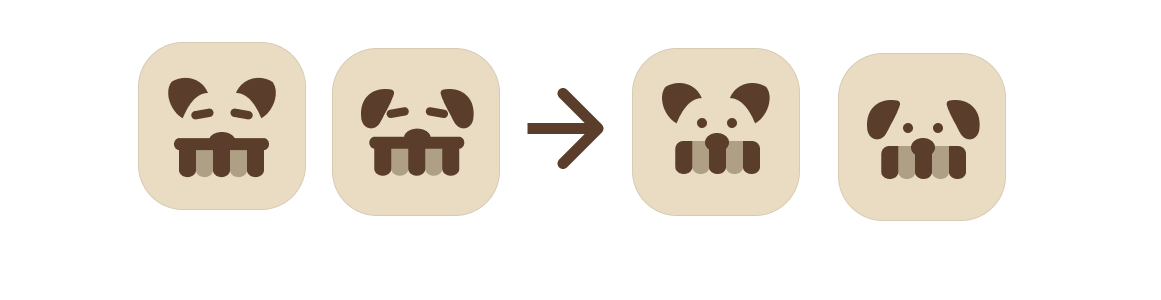
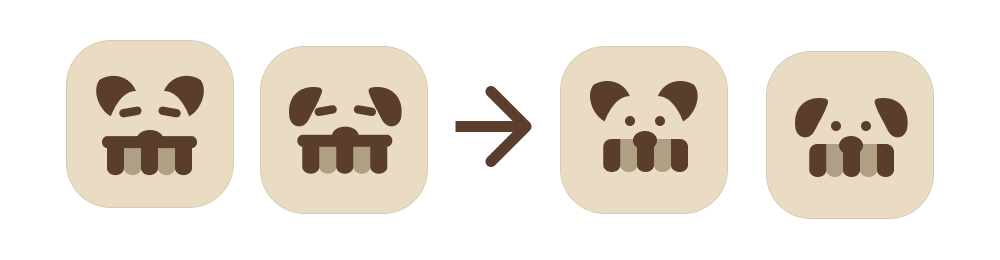
Mark: optical centre judged by eye, Figma board recropped
- Glyph sits 4 units below the tile centre in every icon (was 4 above)
- Figma board cropped evenly, rounded corners
- Mark page and AI log step 38, EN + PT

diff --git a/site/index.html b/site/index.html
@@ -258,6 +258,7 @@ body::before { content: ""; position: fixed; inset: 0 0 auto; height: env(safe-a
 .marks img { display: block; max-width: 100%; height: auto; }
 .marks figcaption { max-width: 24ch; font-size: 13px; line-height: 1.4; color: var(--muted-fg); }
 .marks.wide figcaption { max-width: 70ch; }
+.marks.wide img { border-radius: 14px; }
 .tfaces { display: grid; grid-template-columns: repeat(auto-fit, minmax(240px, 1fr)); gap: var(--s-4); margin: var(--s-4) 0 var(--s-6); }
 .tface { margin: 0; padding: var(--s-5); border: 1px solid var(--border); border-radius: var(--radius); }
 .tface-aa { font-size: 64px; line-height: 1; color: var(--fg); }

diff --git a/docs/pt-br/develop/design-system/mark.md b/docs/pt-br/develop/design-system/mark.md
@@ -10,7 +10,7 @@ Takeaways:
 Call:
 - Provisória (decisão 033). Em preto e branco até a paleta ser escolhida.
 AI:
-- Um agente desenhou os testes de ícone em SVG a partir das minhas sementes (um cão farejador, as compras britânicas, os toldos da parade). Levei os dois primeiros para o Figma e mudei os vetores à mão. O agente exportou a minha versão, reconstruiu-a sobre um eixo só e desenhou as aplicações nas plataformas; ele só mudou proporções onde o desenho estava fora de centro.
+- Um agente desenhou os testes de ícone em SVG a partir das minhas sementes (um cão farejador, as compras britânicas, os toldos da parade). Levei os dois primeiros para o Figma e mudei os vetores à mão. O agente exportou a minha versão, reconstruiu-a sobre um eixo só e desenhou as aplicações nas plataformas. O primeiro centro ótico deixou o desenho alto demais; eu apontei, e ele escolheu outro comparando deslocamentos no olho.
 Trade-offs:
 - No Android o desenho precisa caber numa zona segura de 66 dp, então ele ocupa cerca de metade da largura do ícone e as listras ficam finas em tamanhos pequenos. Uma versão mais simples para tamanhos pequenos continua em aberto.
 ```
@@ -23,7 +23,7 @@ Trade-offs:
 ## Dos testes à marca
 
 <div class="marks wide">
-<figure><img src="../../../develop/design-system/img/mark-figma-board.png" alt="Quatro ícones num quadro do Figma: dois testes do agente, uma seta e duas versões desenhadas à mão" width="1161" height="300"><figcaption>Meu quadro no Figma. À esquerda da seta, os testes de ícone 1 e 2 do agente. À direita, as minhas duas versões; escolhi a última.</figcaption></figure>
+<figure><img src="../../../develop/design-system/img/mark-figma-board.png" alt="Quatro ícones num quadro do Figma: dois testes do agente, uma seta e duas versões desenhadas à mão" width="1000" height="260"><figcaption>Meu quadro no Figma. À esquerda da seta, os testes de ícone 1 e 2 do agente. À direita, as minhas duas versões; escolhi a última.</figcaption></figure>
 </div>
 
 Nos testes do agente, o toldo da parade era uma barra atravessando o rosto, com listras penduradas e dois traços como sobrancelhas. No Figma, eu mesmo mudei os vetores:
@@ -44,10 +44,10 @@ O agente reconstruiu o desenho a partir dos vetores do Figma sem mudar as formas
 | --- | --- | --- |
 | Eixo de simetria | Três centros: olhos e nariz em 85,0, orelhas em 85,3, toldo em 85,65 (de 168) | Um eixo só para todas as partes; a orelha direita é o espelho da esquerda |
 | Listras | Cinco listras de 17 unidades, com um degrau de 0,3 entre a segunda e a terceira | Cinco listras de exatamente 17 unidades |
-| Posição | Desenho centralizado 2,5 unidades abaixo do centro da base e 1,3 à direita | Centralizado na horizontal e 4 unidades acima do centro, porque o toldo deixa o desenho pesado embaixo |
+| Posição | Desenho centralizado 2,5 unidades abaixo do centro da base e 1,3 à direita | Centralizado na horizontal; na vertical, 4 unidades abaixo do centro da base, escolhido no olho entre deslocamentos de 0 a 9 na máscara circular, onde as orelhas largas encontram a curva e fazem um desenho centralizado parecer alto |
 
 <div class="marks">
-<figure><img src="../../../develop/design-system/img/mark-grid.svg" alt="A marca sobre um grid de construção com eixo, centro ótico e círculo de conteúdo" width="336" height="336"><figcaption>Grid de 8 unidades sobre uma base de 168. Vermelho: as linhas de centro da base. Azul tracejado: o centro ótico do desenho. Círculo cinza: 80% da base.</figcaption></figure>
+<figure><img src="../../../develop/design-system/img/mark-grid.svg" alt="A marca sobre um grid de construção com eixo, centro ótico e círculo de conteúdo" width="336" height="336"><figcaption>Grid de 8 unidades sobre uma base de 168. Vermelho: as linhas de centro da base. Azul tracejado: o centro do desenho, 4 unidades abaixo. Círculo cinza: 80% da base.</figcaption></figure>
 </div>
 
 ## iOS

diff --git a/docs/develop/design-system/mark.md b/docs/develop/design-system/mark.md
@@ -10,7 +10,7 @@ Takeaways:
 Call:
 - Provisional (decision 033). Black and white until the palette is chosen.
 AI:
-- An agent drew the icon tests in SVG from my seeds (a sniffer dog, British shopping, the parade's awnings). I took the first two into Figma and changed the vectors by hand. The agent exported my version, rebuilt it on one axis and drew the platform applications; it changed proportions only where the drawing was off-centre.
+- An agent drew the icon tests in SVG from my seeds (a sniffer dog, British shopping, the parade's awnings). I took the first two into Figma and changed the vectors by hand. The agent exported my version, rebuilt it on one axis and drew the platform applications. Its first optical centre put the glyph too high; I pointed it out and it chose a new one by comparing offsets by eye.
 Trade-offs:
 - On Android the glyph has to fit a 66 dp safe zone, so it is about half the icon's width and the stripes get thin at small sizes. A simpler version for small sizes is still open.
 ```
@@ -23,7 +23,7 @@ Trade-offs:
 ## From the tests to the mark
 
 <div class="marks wide">
-<figure><img src="img/mark-figma-board.png" alt="Four icons on a Figma board: two agent tests, an arrow, and two hand-drawn versions" width="1161" height="300"><figcaption>My Figma board. Left of the arrow: the agent's icon tests 1 and 2. Right: my two versions; I chose the last one.</figcaption></figure>
+<figure><img src="img/mark-figma-board.png" alt="Four icons on a Figma board: two agent tests, an arrow, and two hand-drawn versions" width="1000" height="260"><figcaption>My Figma board. Left of the arrow: the agent's icon tests 1 and 2. Right: my two versions; I chose the last one.</figcaption></figure>
 </div>
 
 The agent's tests had the parade's awning as a bar across the face, with stripes hanging from it and two dashes for brows. In Figma I changed the vectors myself:
@@ -44,10 +44,10 @@ The agent rebuilt the drawing from the Figma vectors without changing its shapes
 | --- | --- | --- |
 | Symmetry axis | Three centres: eyes and nose at 85.0, ears at 85.3, awning at 85.65 (of 168) | One axis for all parts; the right ear is a mirror of the left |
 | Stripes | Five stripes of 17 units, with a 0.3 unit step between the second and third | Five stripes of exactly 17 units |
-| Position | Glyph centred 2.5 units below the tile's centre and 1.3 to the right | Centred horizontally and moved 4 units above centre, because the awning makes the glyph bottom-heavy |
+| Position | Glyph centred 2.5 units below the tile's centre and 1.3 to the right | Centred horizontally; vertically 4 units below the tile's centre, chosen by eye from offsets of 0 to 9 in the circle mask, where the wide ears meet the curve and make a centred glyph look high |
 
 <div class="marks">
-<figure><img src="img/mark-grid.svg" alt="The mark on a construction grid with axis, optical centre and content circle" width="336" height="336"><figcaption>8-unit grid on a 168 tile. Red: the tile's centre lines. Blue dashed: the glyph's optical centre. Grey circle: 80% of the tile.</figcaption></figure>
+<figure><img src="img/mark-grid.svg" alt="The mark on a construction grid with axis, optical centre and content circle" width="336" height="336"><figcaption>8-unit grid on a 168 tile. Red: the tile's centre lines. Blue dashed: the glyph's centre, 4 units below. Grey circle: 80% of the tile.</figcaption></figure>
 </div>
 
 ## iOS

diff --git a/docs/pt-br/process/ai-log.md b/docs/pt-br/process/ai-log.md
@@ -145,6 +145,9 @@ Pré-decidi o Cinza biscoito e perguntei se as paletas saturadas da rodada 2 fun
 ### 37. A Night bus, derivada e testada
 Pedi para explorar a Night bus: as badges dela pareciam piores que as da Corner shop, da Pastel parade ou da Lido, eu queria mais exemplos de interface que a forçassem, uma gama de nuances de cada cor para garantir contraste, e ver o Índigo no lugar do azul na Lido ou na Pastel parade. Um agente montou uma escala de dez passos em OKLCH para cada cor, viu que as badges sólidas ofuscavam porque três das quatro cores são claras e muito saturadas, e as trocou por badges tonais (todas acima de 7:1). Ele desenhou quatro telas no claro e no escuro (home, chat com ofertas, pedidos, um item guardado) e dois conjuntos híbridos. As primeiras telas usavam nomes de classe que o site e o canvas já estilizam, o que escureceu uma fileira de chips; ele trocou os nomes.
 
+### 38. O centro ótico da marca
+Percebi que a marca estava alta demais, principalmente na máscara circular do Android, e que o quadro do Figma tinha mais branco embaixo do que em cima. O agente tinha subido o desenho 4 unidades pelo raciocínio de que o toldo o deixa pesado embaixo. Dessa vez ele renderizou deslocamentos de -4 a +9 num círculo, numa base e num círculo escuro, e julgou no olho: as orelhas largas encontram a curva do círculo, então um desenho centralizado parece alto. Ele escolheu 4 unidades abaixo do centro e recortou o quadro por igual, com cantos arredondados.
+
 ## Falhas da IA
 
 - Um primeiro rascunho de personas parecia pronto, mas era circular, porque o agente o construiu antes de o método estar certo. O agente revisor percebeu; o agente que o escreveu, não.

diff --git a/docs/process/ai-log.md b/docs/process/ai-log.md
@@ -145,6 +145,9 @@ I pre-decided Biscuit grey and asked whether the saturated palettes from round 2
 ### 37. Night bus, derived and stressed
 I asked to explore Night bus: its badges looked worse than Corner shop's, Pastel parade's or Lido's, I wanted more interface examples that stress it, a range of nuances per colour for contrast, and a look at Indigo in place of the blue in Lido or Pastel parade. An agent built a ten-step OKLCH ramp for each colour, found that the solid badges glared because three of the four colours are light and very saturated, and replaced them with tonal badges (all above 7:1). It drew four screens in light and dark (home, chat with offers, requests, a held order) and two hybrid sets. Its first screens reused class names that the site and the canvas already style, which darkened a chip row; it renamed them.
 
+### 38. The mark's optical centre
+I noticed the mark sat too high, most visibly in Android's circle mask, and that the Figma board had more white below than above. The agent had moved the glyph up 4 units by reasoning that the awning makes it bottom-heavy. This time it rendered offsets from -4 to +9 in a circle, a tile and a dark circle, and judged them by eye: the wide ears meet the circle's curve, so a centred glyph reads high. It chose 4 units below centre and recropped the board evenly with rounded corners.
+
 ## AI failures
 
 - A first persona draft looked finished but was circular, because the agent built it before the method was right. The reviewer agent caught it; the agent that wrote it didn't.
